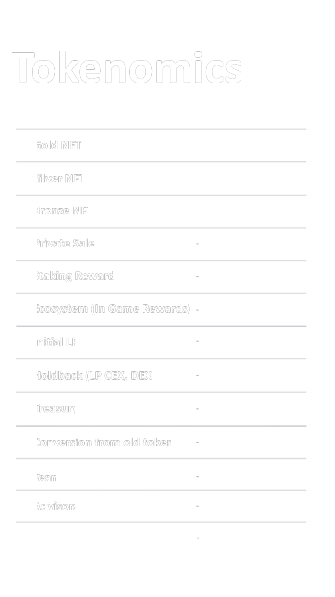
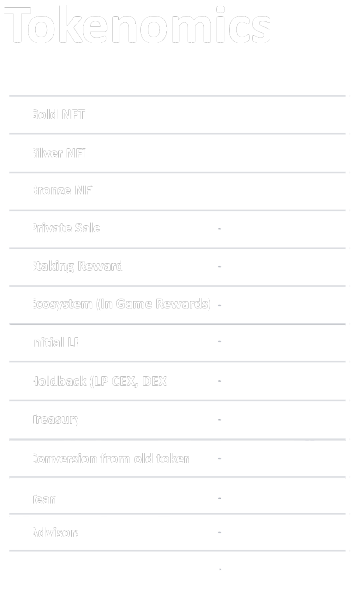
fix(footer): links open on new windows

diff --git a/src/components/home/footer/index.js b/src/components/home/footer/index.js
@@ -5,33 +5,36 @@ import { useState } from "react";
 export default function Footer() {
   const { submitForm } = useHubspotForm();
   const [email, setEmail] = useState("");
-  const [showSuccess , setShowSuccess] = useState(false)
+  const [showSuccess, setShowSuccess] = useState(false);
 
   const handleChange = (e) => {
     setEmail(e.target.value);
   };
 
-  const handleSubmit = async(e) =>{
-    e.preventDefault()
-    const response = await submitForm(email)
-    if(response){
-      setShowSuccess(true)
+  const handleSubmit = async (e) => {
+    e.preventDefault();
+    const response = await submitForm(email);
+    if (response) {
+      setShowSuccess(true);
       setTimeout(() => {
-        setShowSuccess(false)
-        setEmail('')
+        setShowSuccess(false);
+        setEmail("");
       }, 3000);
     }
-  }
-
+  };
 
   return (
-    <footer id="newsletter" className="relative bg-[#212428]"  >
+    <footer id="newsletter" className="relative bg-[#212428]">
       <h2 id="footer-heading" className="sr-only">
         Footer
       </h2>
       <div className="px-6 pt-8 pb-8 mx-auto max-w-7xl sm:pt-24 lg:px-8 lg:pt-32">
         <div className="xl:grid xl:grid-cols-3 xl:gap-8">
-          <img className="hidden h-32 lg:block" src="/images/logo.webp" alt="Company name" />
+          <img
+            className="hidden h-32 lg:block"
+            src="/images/logo.webp"
+            alt="Company name"
+          />
           <div className="grid grid-cols-2 gap-8 mt-6 xl:col-span-2 xl:mt-0">
             <div className="md:grid md:grid-cols-2 md:gap-8">
               <div>
@@ -93,16 +96,21 @@ export default function Footer() {
                   Legal
                 </h3>
                 <ul role="list" className="mt-6 space-y-4">
-                  {navigation.legal.map((item) => (
-                    <li key={item.name}>
-                      <a
-                        href={item.href}
-                        className="text-sm leading-6 text-gray-300 hover:text-white"
-                      >
-                        {item.name}
-                      </a>
-                    </li>
-                  ))}
+                  {navigation.legal.map((item) => {
+                    const shouldOpenInNewTab = item.href.startsWith("/docs");
+                    return (
+                      <li key={item.name}>
+                        <a
+                          href={item.href}
+                          target={shouldOpenInNewTab ? "_blank" : "_self"}
+                          rel={shouldOpenInNewTab ? "noopener noreferrer" : ""}
+                          className="text-sm leading-6 text-gray-300 hover:text-white"
+                        >
+                          {item.name}
+                        </a>
+                      </li>
+                    );
+                  })}
                 </ul>
               </div>
             </div>
@@ -118,7 +126,10 @@ export default function Footer() {
               weekly.
             </p>
           </div>
-          <form className="mt-6 sm:flex sm:max-w-md lg:mt-0" onSubmit={handleSubmit}>
+          <form
+            className="mt-6 sm:flex sm:max-w-md lg:mt-0"
+            onSubmit={handleSubmit}
+          >
             <label htmlFor="email-address" className="sr-only">
               Email address
             </label>
@@ -133,7 +144,11 @@ export default function Footer() {
               className="w-full min-w-0 appearance-none rounded-md border-0 bg-white/5 px-3 py-1.5 text-base text-white shadow-sm ring-inset ring-0 placeholder:text-gray-500 focus:ring-2 focus:ring-inset focus:ring-indigo-500 sm:w-56 sm:text-sm sm:leading-6"
               placeholder="Enter your email"
             />
-             {showSuccess &&  <p className="px-1 py-2 text-green-700">Email submitted Successfully!</p> }
+            {showSuccess && (
+              <p className="px-1 py-2 text-green-700">
+                Email submitted Successfully!
+              </p>
+            )}
             <div className="mt-4 sm:ml-4 sm:mt-0 sm:flex-shrink-0">
               <button
                 type="submit"
@@ -146,13 +161,18 @@ export default function Footer() {
         </div>
         <div className="pt-8 mt-8 border-t border-white/10 md:flex md:items-center md:justify-between">
           <div className="flex space-x-6 md:order-2">
-              {navigation.social.map((item) => (
-                <a key={item.name} href={item.href} target="_blank" className="text-gray-500 hover:text-gray-400">
-                  <span className="sr-only">{item.name}</span>
-                  <item.icon className="w-6 h-6" aria-hidden="true" />
-                </a>
-              ))}
-            </div>
+            {navigation.social.map((item) => (
+              <a
+                key={item.name}
+                href={item.href}
+                target="_blank"
+                className="text-gray-500 hover:text-gray-400"
+              >
+                <span className="sr-only">{item.name}</span>
+                <item.icon className="w-6 h-6" aria-hidden="true" />
+              </a>
+            ))}
+          </div>
           <p className="mt-8 text-xs leading-5 text-gray-400 md:order-1 md:mt-0">
             &copy; 2024 The Delux Network, Inc. All rights reserved.
           </p>

diff --git a/src/components/home/tokenomics/index.js b/src/components/home/tokenomics/index.js
@@ -10,7 +10,7 @@ const TokenomicSection = () => {
         </h1>
         <div className="flex flex-col items-center justify-center gap-0 md:gap-16 md:flex-row ">
           <img src="/images/tokenomics_chart.png" className="max-h-max lg:w-[500px] w-[300px]" />
-          <img src="/images/tokenomics_table.webp" className="h-[800px] lg:max-w-max max-w-xs" />
+          <img src="/images/tokenomics_table.webp" className="h-[700px] lg:max-w-max max-w-xs" />
           {/* <div className="flex items-center gap-2">
             <PieChart />
             <TokenomicsTable />
